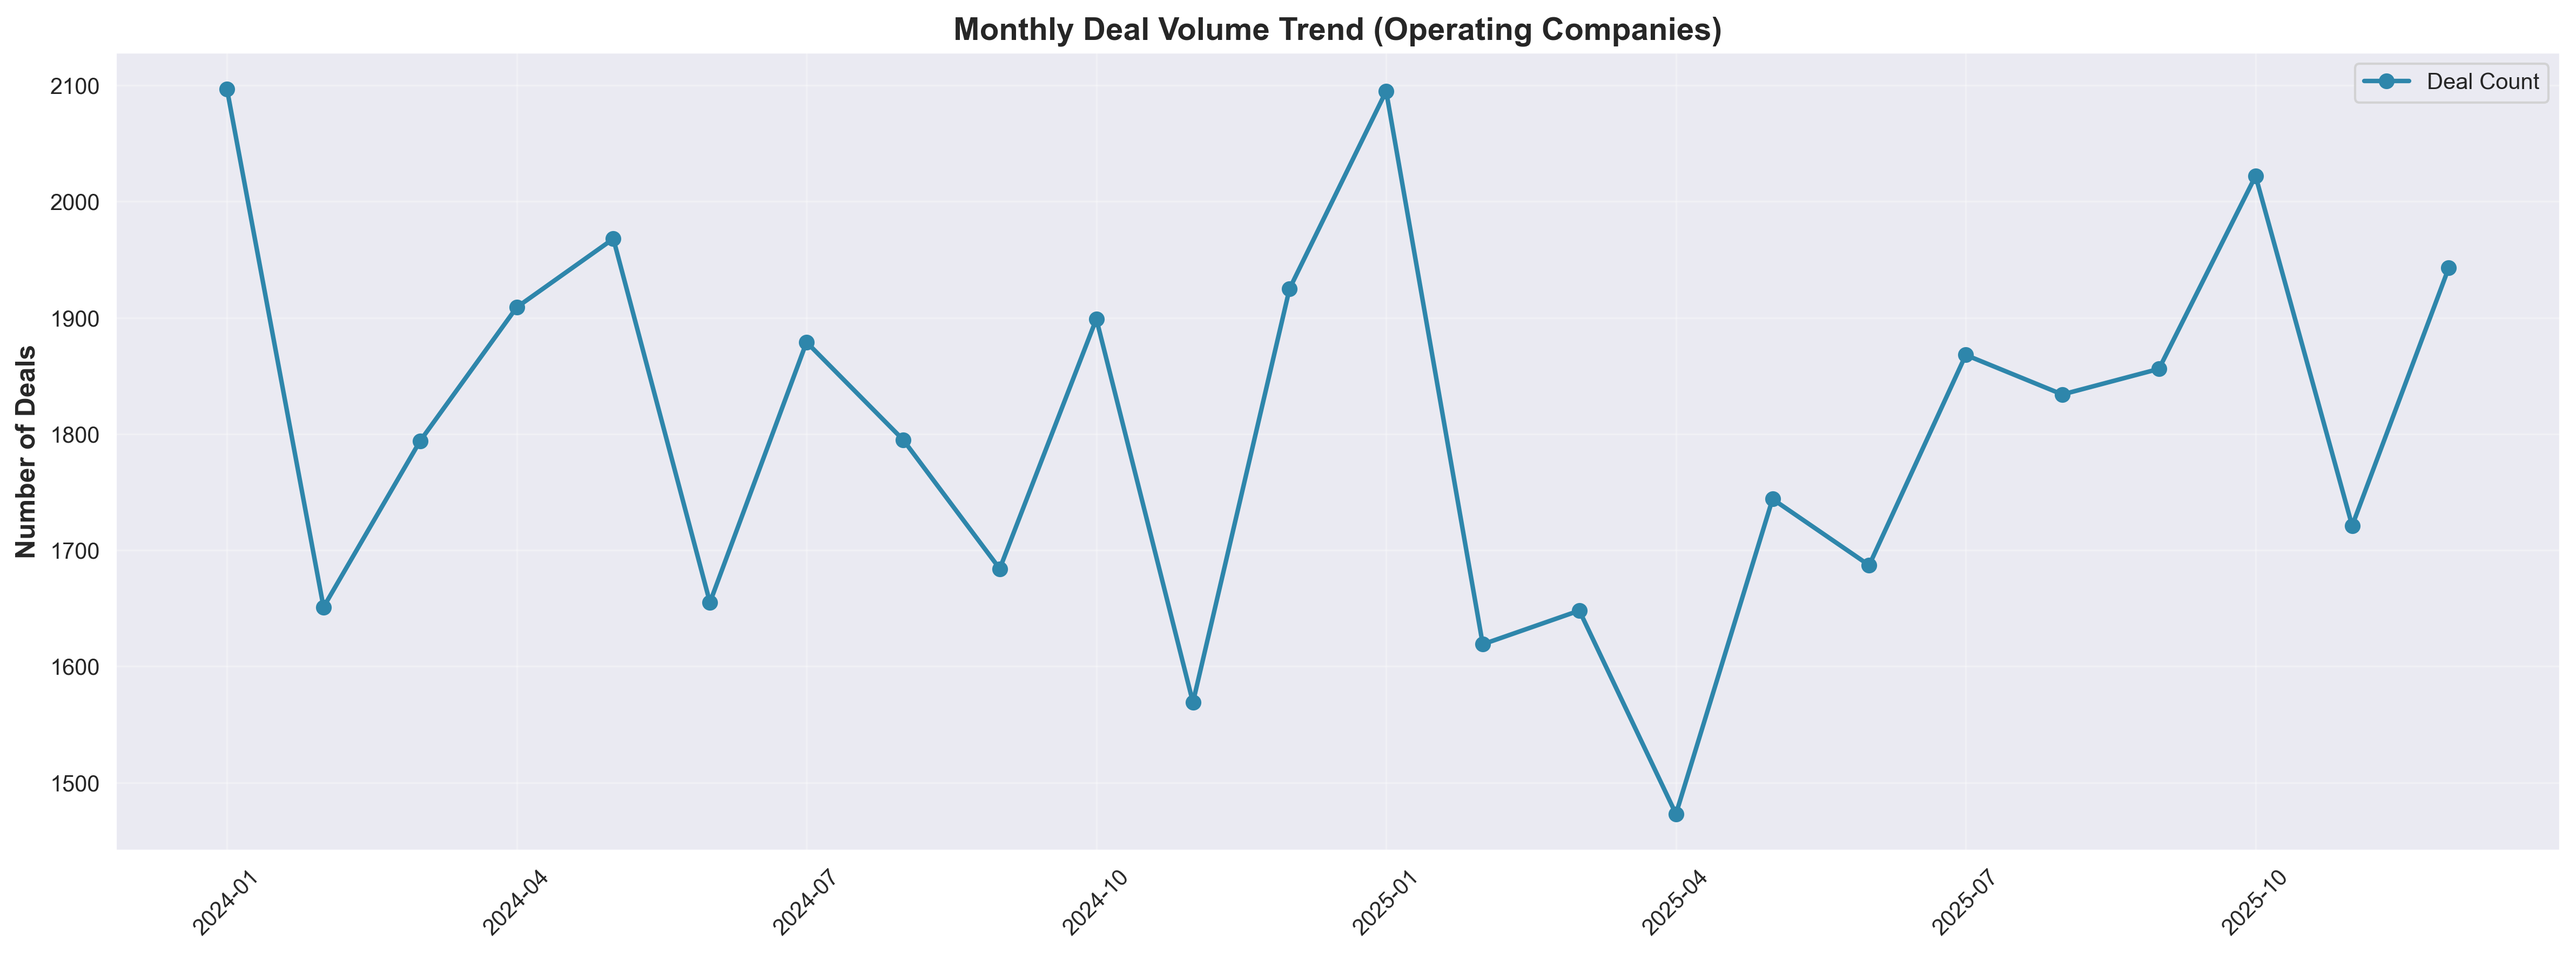
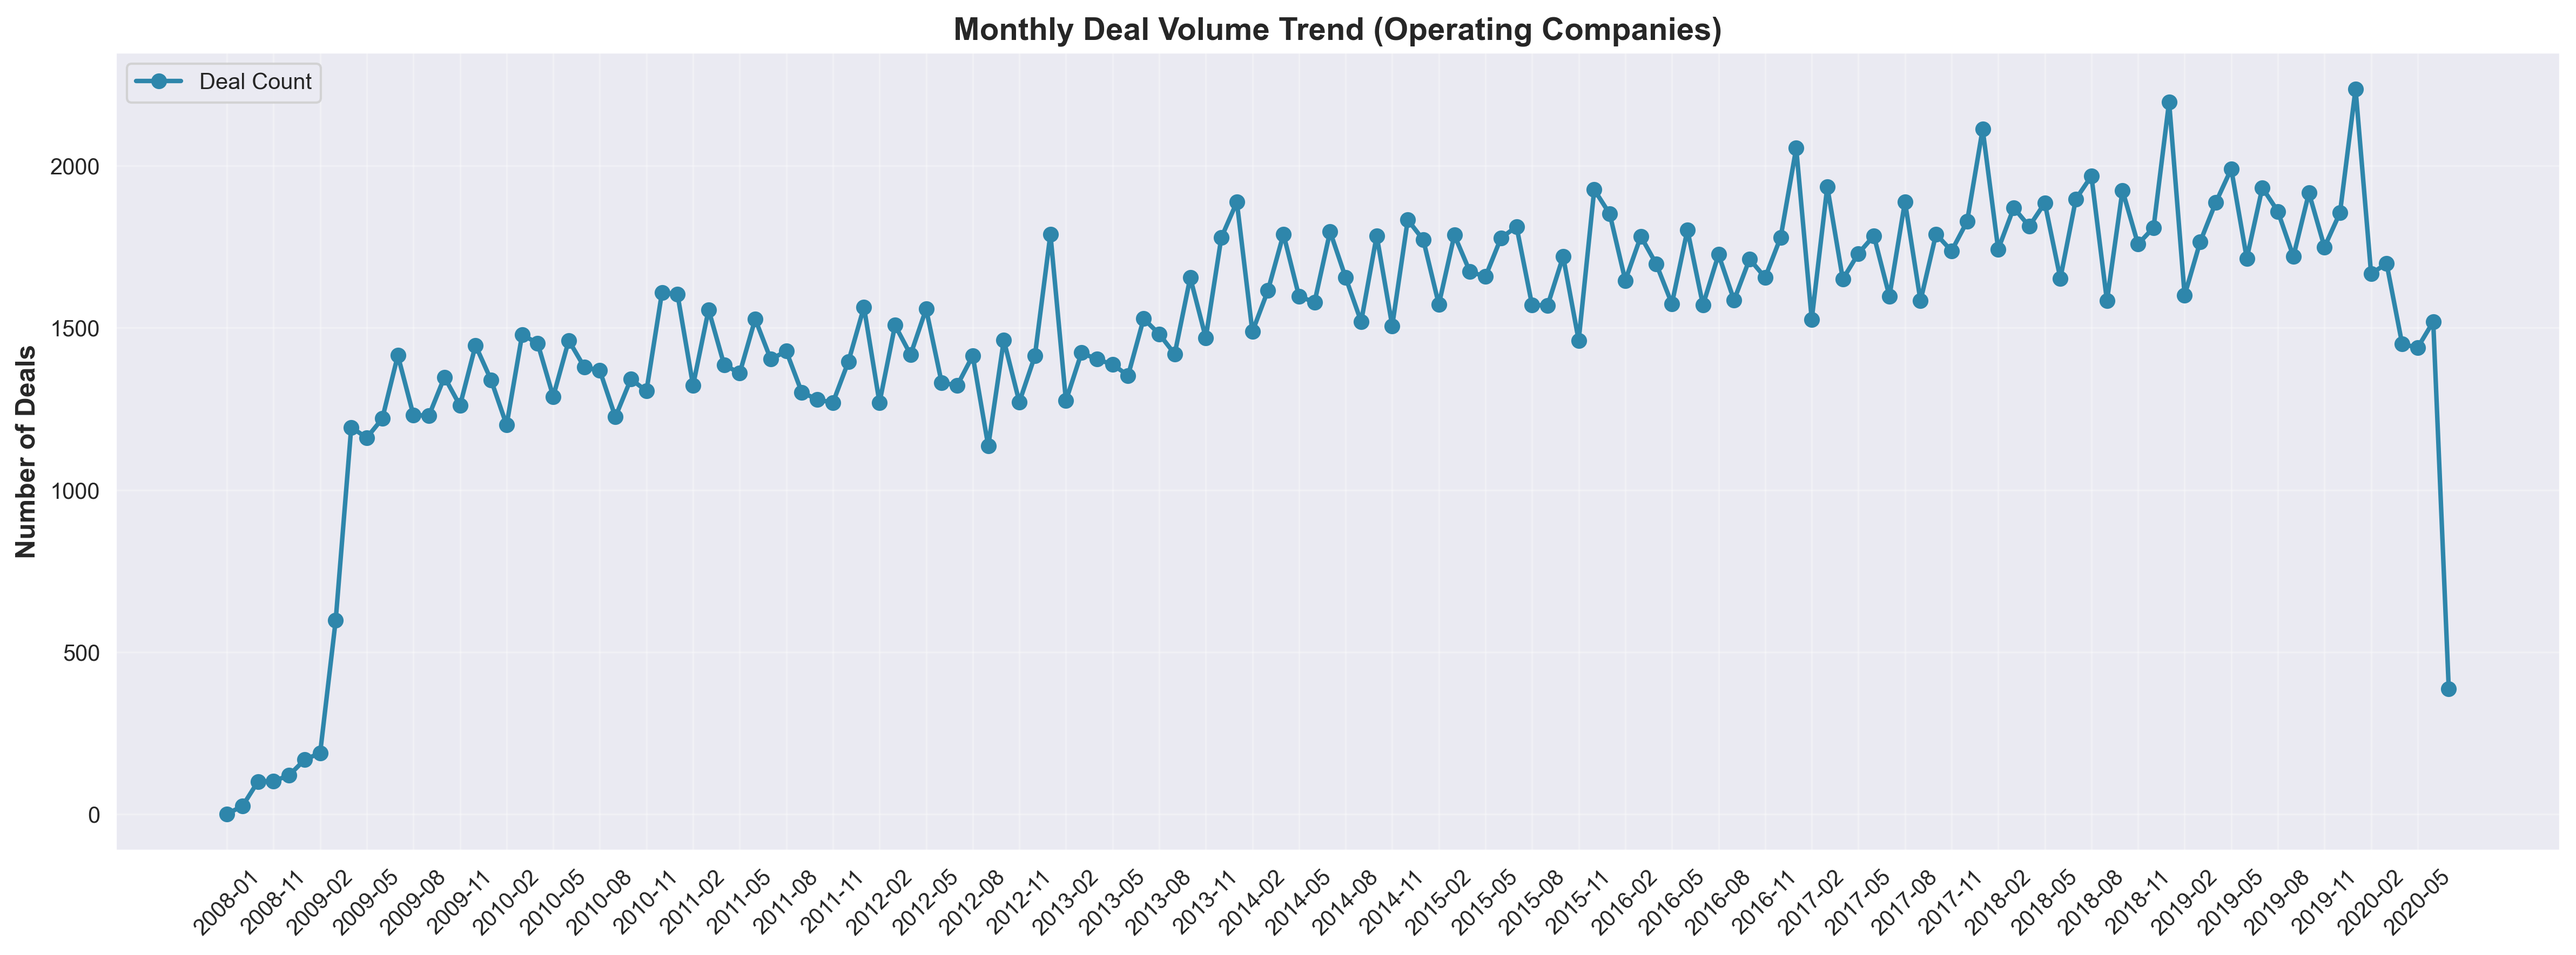
Expand SEC Form D analysis to 2008-2025 (730K filings)
- Add download script for 2008-2021 SEC data (56 quarterly files)
- Update data_loader.py for nested directory structures
- Fix date parsing: flexible format + data_year/data_quarter fallback
- Fix CSV date loading in all analysis scripts
- Regenerate all 9 visualizations with 18 years of data
- Update target list (43 companies, Biotech/Pharma dominant)

diff --git a/analysis/data_loader.py b/analysis/data_loader.py
@@ -41,52 +41,88 @@ class FormDDataLoader:
         # Storage for loaded data
         self.master_data: Dict[str, pd.DataFrame] = {}
         
-    def get_available_quarters(self) -> List[Tuple[int, int]]:
+    def get_available_quarters(self) -> List[Tuple[int, int, Path]]:
         """
-        Identify all available quarterly data directories
+        Identify all available quarterly data directories across different structures.
+        
+        Handles:
+        - Top-level: base/2024Q1_d/ (2024-2025)
+        - Year-nested: base/2022/2022Q1_d/ (2022-2023)
+        - Double-nested from zip: base/2008/2008Q1_d/2008Q1_d/ (downloaded 2008-2021)
         
         Returns:
-            List of (year, quarter) tuples
+            List of (year, quarter, path_to_tsv_dir) tuples
         """
         quarters = []
         
-        # Look for quarterly directories (2024Q1_d, 2024Q2_d, etc.)
+        def try_parse_quarter_dir(name: str):
+            """Extract year/quarter from dir name like '2024Q1_d'"""
+            try:
+                clean = name.replace('_d', '')
+                parts = clean.split('Q')
+                return int(parts[0]), int(parts[1])
+            except (ValueError, IndexError):
+                return None, None
+        
         for item in self.base_path.iterdir():
-            if item.is_dir() and 'Q' in item.name and '_d' in item.name:
-                try:
-                    parts = item.name.replace('_d', '').split('Q')
-                    year = int(parts[0])
-                    quarter = int(parts[1])
-                    quarters.append((year, quarter))
-                except (ValueError, IndexError):
-                    logger.warning(f"Skipping directory with unexpected format: {item.name}")
+            if not item.is_dir():
+                continue
+            
+            # Pattern 1: Top-level quarterly dir like "2024Q1_d"
+            if 'Q' in item.name and '_d' in item.name:
+                year, quarter = try_parse_quarter_dir(item.name)
+                if year and quarter:
+                    quarters.append((year, quarter, item))
+                continue
+            
+            # Pattern 2: Year directory like "2022" containing quarterly subdirs
+            try:
+                year_val = int(item.name)
+                if 2008 <= year_val <= 2030:
+                    for sub in item.iterdir():
+                        if sub.is_dir() and 'Q' in sub.name and '_d' in sub.name:
+                            year, quarter = try_parse_quarter_dir(sub.name)
+                            if year and quarter:
+                                # Check for double-nesting (zip extracted another folder inside)
+                                inner = sub / sub.name
+                                if inner.is_dir() and any(inner.glob("*.tsv")):
+                                    quarters.append((year, quarter, inner))
+                                elif any(sub.glob("*.tsv")):
+                                    quarters.append((year, quarter, sub))
+                                else:
+                                    # Maybe TSVs are one more level down
+                                    for inner_sub in sub.iterdir():
+                                        if inner_sub.is_dir() and any(inner_sub.glob("*.tsv")):
+                                            quarters.append((year, quarter, inner_sub))
+                                            break
+            except ValueError:
+                continue
                     
         # Sort by year and quarter
-        quarters.sort()
+        quarters.sort(key=lambda x: (x[0], x[1]))
         return quarters
     
-    def load_quarterly_data(self, year: int, quarter: int) -> Dict[str, pd.DataFrame]:
+    def load_quarterly_data(self, year: int, quarter: int, data_dir: Path) -> Dict[str, pd.DataFrame]:
         """
         Load all TSV files for a specific quarter
         
         Args:
             year: Year (e.g., 2024)
             quarter: Quarter number (1-4)
+            data_dir: Path to the directory containing TSV files
             
         Returns:
             Dictionary of dataframes keyed by table type
         """
-        quarter_dir = self.base_path / f"{year}Q{quarter}_d"
+        if not data_dir.exists():
+            raise FileNotFoundError(f"Quarter directory not found: {data_dir}")
         
-        if not quarter_dir.exists():
-            raise FileNotFoundError(f"Quarter directory not found: {quarter_dir}")
-        
-        logger.info(f"Loading data for {year} Q{quarter}...")
+        logger.info(f"Loading data for {year} Q{quarter} from {data_dir}...")
         
         quarterly_data = {}
         
         for data_type, filename in self.data_files.items():
-            file_path = quarter_dir / filename
+            file_path = data_dir / filename
             
             if not file_path.exists():
                 logger.warning(f"File not found: {file_path}")
@@ -127,8 +163,8 @@ class FormDDataLoader:
             raise ValueError("No quarterly data directories found")
         
         logger.info(f"Found {len(quarters)} quarters of data:")
-        for year, quarter in quarters:
-            logger.info(f"  - {year} Q{quarter}")
+        for year, quarter, data_dir in quarters:
+            logger.info(f"  - {year} Q{quarter} -> {data_dir}")
         
         # Initialize consolidated dataframes
         consolidated: Dict[str, List[pd.DataFrame]] = {
@@ -136,9 +172,9 @@ class FormDDataLoader:
         }
         
         # Load each quarter and append to consolidated list
-        for year, quarter in quarters:
+        for year, quarter, data_dir in quarters:
             try:
-                quarterly_data = self.load_quarterly_data(year, quarter)
+                quarterly_data = self.load_quarterly_data(year, quarter, data_dir)
                 
                 for data_type, df in quarterly_data.items():
                     consolidated[data_type].append(df)

diff --git a/analysis/download_sec_data.py b/analysis/download_sec_data.py
@@ -1,0 +1,126 @@
+"""
+Download SEC Form D data sets for 2008-2021
+Correct URL: https://www.sec.gov/files/structureddata/data/form-d-data-sets/
+"""
+
+import os
+import requests
+import zipfile
+import time
+from pathlib import Path
+
+BASE_DIR = Path("/Users/bhumikamarmat/sec filings")
+
+HEADERS = {
+    "User-Agent": "Z5Capital bhumikamarmat@gmail.com",
+    "Accept-Encoding": "gzip, deflate",
+    "Accept": "*/*",
+}
+
+BASE_URL = "https://www.sec.gov/files/structureddata/data/form-d-data-sets"
+
+
+def download_file(url: str, dest: Path) -> bool:
+    """Download a file from SEC"""
+    try:
+        resp = requests.get(url, headers=HEADERS, timeout=60, stream=True)
+        content_type = resp.headers.get('content-type', '')
+        
+        if resp.status_code == 200 and 'html' not in content_type.lower():
+            with open(dest, 'wb') as f:
+                for chunk in resp.iter_content(chunk_size=8192):
+                    f.write(chunk)
+            size_mb = os.path.getsize(dest) / (1024 * 1024)
+            print(f"  ✓ {dest.name} ({size_mb:.1f} MB)")
+            return True
+        else:
+            return False
+    except Exception as e:
+        print(f"  ✗ Error: {e}")
+        return False
+
+
+def extract_zip(zip_path: Path, dest_dir: Path):
+    """Extract zip file"""
+    try:
+        with zipfile.ZipFile(zip_path, 'r') as zf:
+            zf.extractall(dest_dir)
+        return True
+    except Exception as e:
+        print(f"  ✗ Extract error: {e}")
+        return False
+
+
+def main():
+    years = list(range(2008, 2022))  # 2008-2021
+    
+    print("=" * 60)
+    print("SEC Form D Data Downloader (2008-2021)")
+    print("=" * 60)
+    
+    # Some quarters have _0 suffix (SEC inconsistency)
+    # Try both patterns for each quarter
+    success = 0
+    failed = 0
+    
+    for year in years:
+        print(f"\n--- {year} ---")
+        
+        year_dir = BASE_DIR / str(year)
+        
+        # Check if we already have this year's data
+        if year_dir.exists() and any(year_dir.rglob("*.tsv")):
+            print(f"  Already have {year} data, skipping")
+            success += 1
+            continue
+        
+        year_dir.mkdir(exist_ok=True)
+        year_ok = True
+        
+        for q in range(1, 5):
+            q_dir_name = f"{year}Q{q}_d"
+            q_dir = year_dir / q_dir_name
+            
+            if q_dir.exists() and any(q_dir.rglob("*.tsv")):
+                print(f"  Q{q}: already exists")
+                continue
+            
+            # Try different URL patterns
+            patterns = [
+                f"{BASE_URL}/{year}q{q}_d.zip",
+                f"{BASE_URL}/{year}q{q}_d_0.zip",
+            ]
+            
+            downloaded = False
+            for url in patterns:
+                zip_path = BASE_DIR / f"{year}Q{q}_d.zip"
+                if download_file(url, zip_path):
+                    q_dir.mkdir(parents=True, exist_ok=True)
+                    extract_zip(zip_path, q_dir)
+                    os.remove(zip_path)  # Clean up zip
+                    downloaded = True
+                    break
+                # Clean up failed download
+                if zip_path.exists():
+                    os.remove(zip_path)
+            
+            if not downloaded:
+                print(f"  ✗ Q{q}: all URL patterns failed")
+                year_ok = False
+            
+            time.sleep(0.5)  # Rate limit
+        
+        if year_ok:
+            success += 1
+        else:
+            failed += 1
+        
+        time.sleep(0.5)
+    
+    print(f"\n{'=' * 60}")
+    print(f"Done: {success} years OK, {failed} failed")
+    print(f"{'=' * 60}")
+
+
+if __name__ == "__main__":
+    main()

diff --git a/analysis/data_cleaning.py b/analysis/data_cleaning.py
@@ -87,13 +87,29 @@ class FormDDataCleaner:
         """
         logger.info("\nCleaning SUBMISSIONS table...")
         
-        # Parse filing date
-        df['filing_date'] = pd.to_datetime(df['FILING_DATE'], format=FILING_DATE_FORMAT, errors='coerce')
+        # Parse filing date - use flexible format to handle multiple date formats
+        # across different years (e.g., '2008-01-02 06:01:00', '31-DEC-2025', etc.)
+        df['filing_date'] = pd.to_datetime(df['FILING_DATE'], errors='coerce', format='mixed', dayfirst=False)
         
-        # Extract year and month
+        # Extract year and month from parsed dates
         df['filing_year'] = df['filing_date'].dt.year
         df['filing_month'] = df['filing_date'].dt.month
         df['filing_quarter'] = df['filing_date'].dt.quarter
+        
+        # Fallback: use data_year/data_quarter metadata when filing_date couldn't be parsed
+        mask_no_date = df['filing_date'].isna()
+        if mask_no_date.any():
+            df.loc[mask_no_date, 'filing_year'] = df.loc[mask_no_date, 'data_year']
+            df.loc[mask_no_date, 'filing_quarter'] = df.loc[mask_no_date, 'data_quarter']
+            # Approximate filing_month from quarter midpoint
+            df.loc[mask_no_date, 'filing_month'] = (df.loc[mask_no_date, 'data_quarter'] - 1) * 3 + 2
+            # Create approximate filing_date from year/quarter
+            df.loc[mask_no_date, 'filing_date'] = pd.to_datetime(
+                df.loc[mask_no_date, 'filing_year'].astype(int).astype(str) + '-' +
+                df.loc[mask_no_date, 'filing_month'].astype(int).astype(str) + '-15',
+                errors='coerce'
+            )
+            logger.info(f"  Filled {mask_no_date.sum():,} missing dates using data_year/data_quarter")
         
         # Clean SIC code
         df['sic_code'] = df['SIC_CODE'].fillna('').str.strip()

diff --git a/analysis/target_generator.py b/analysis/target_generator.py
@@ -206,7 +206,9 @@ def main():
     data_path = base_path / "data" / "cleaned_analytical.csv"
     
     print("Loading analytical dataset...")
-    df = pd.read_csv(data_path, parse_dates=['filing_date', 'sale_date'])
+    df = pd.read_csv(data_path, low_memory=False)
+    df['filing_date'] = pd.to_datetime(df['filing_date'], errors='coerce')
+    df['sale_date'] = pd.to_datetime(df['sale_date'], errors='coerce')
     
     print(f"Loaded {len(df):,} offerings\n")
     

diff --git a/analysis/sector_analysis.py b/analysis/sector_analysis.py
@@ -308,7 +308,9 @@ def main():
     data_path = base_path / "data" / "cleaned_analytical.csv"
     
     print("Loading analytical dataset...")
-    df = pd.read_csv(data_path, parse_dates=['filing_date', 'sale_date'])
+    df = pd.read_csv(data_path, low_memory=False)
+    df['filing_date'] = pd.to_datetime(df['filing_date'], errors='coerce')
+    df['sale_date'] = pd.to_datetime(df['sale_date'], errors='coerce')
     
     print(f"Loaded {len(df):,} offerings")
     

diff --git a/analysis/temporal_analysis.py b/analysis/temporal_analysis.py
@@ -267,7 +267,9 @@ def main():
     data_path = base_path / "data" / "cleaned_analytical.csv"
     
     print("Loading analytical dataset...")
-    df = pd.read_csv(data_path, parse_dates=['filing_date', 'sale_date'])
+    df = pd.read_csv(data_path, low_memory=False)
+    df['filing_date'] = pd.to_datetime(df['filing_date'], errors='coerce')
+    df['sale_date'] = pd.to_datetime(df['sale_date'], errors='coerce')
     
     print(f"Loaded {len(df):,} offerings")
     
